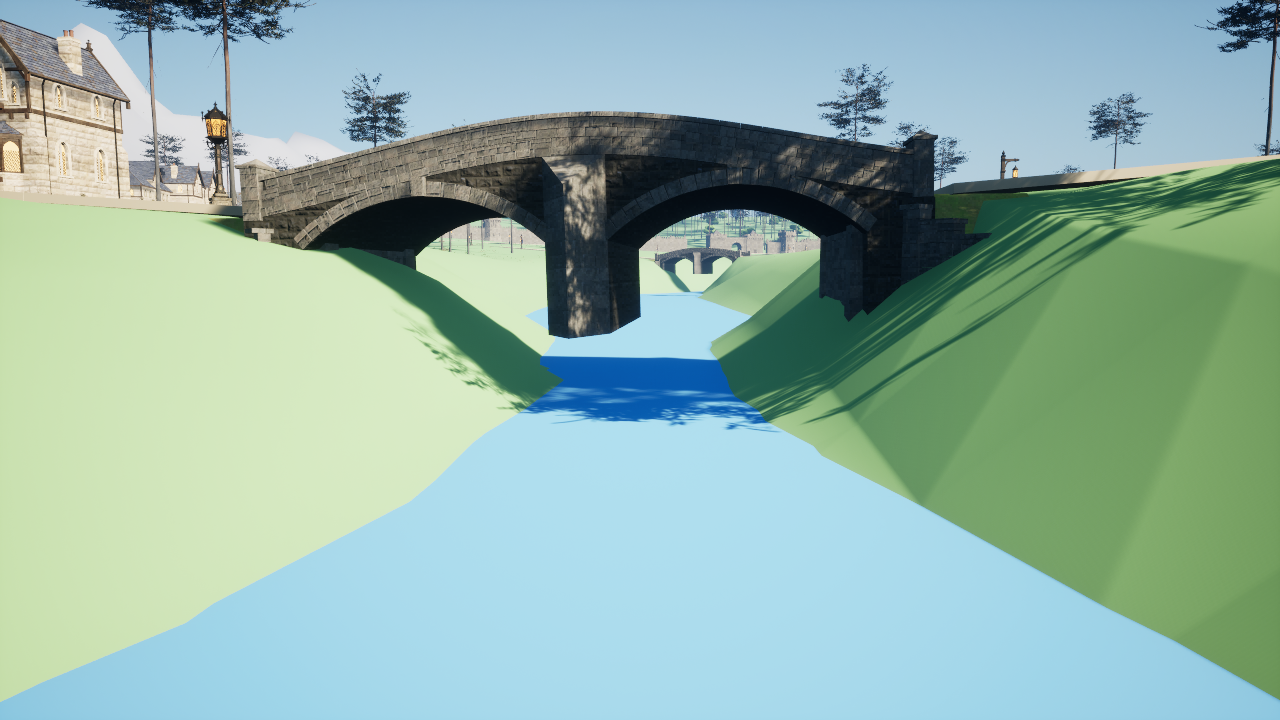
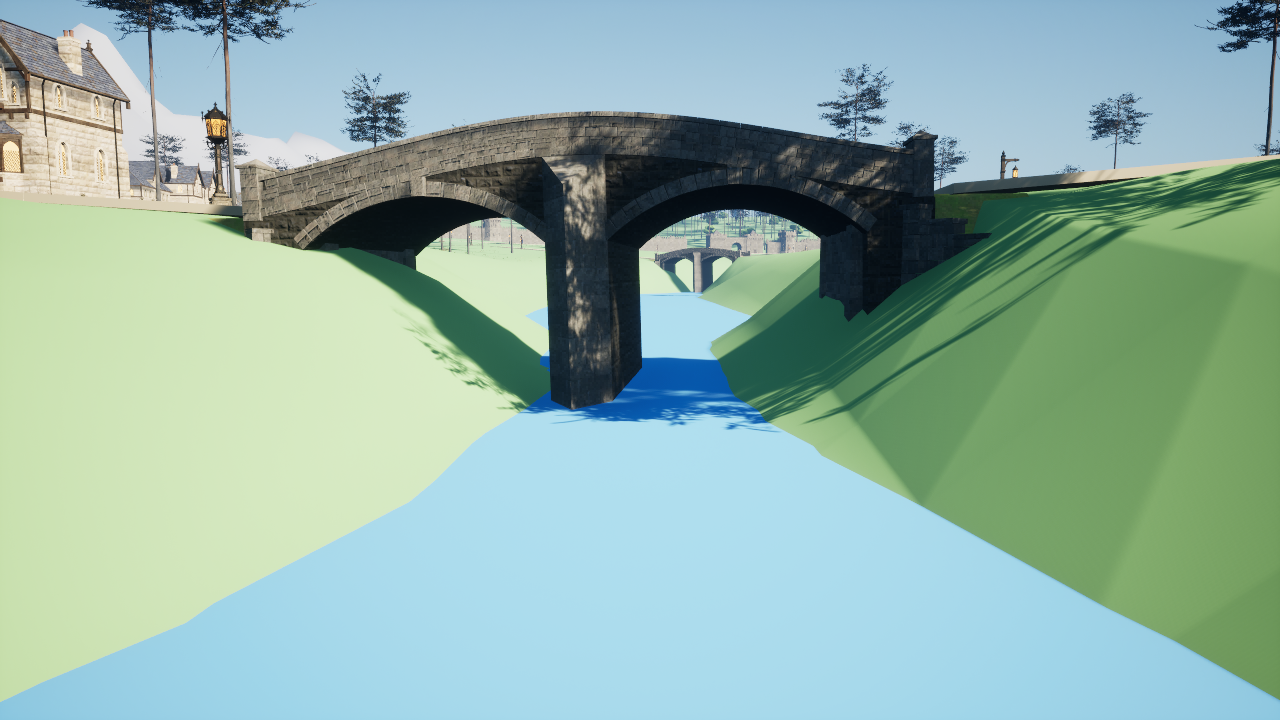
Silverbrook: deeper bridge pier verified; runbook rows for piers and angled crossings
The Assets session extended SM_SilverbrookRiverBridge and the abutments to
z=-10 m. The crossing capture shows the pier reaching into the river.

Runbook troubleshooting gains two rows:
- floating piers (masonry too shallow for built-up banks);
- the walk review stalling at a pier (the straight-line pawn left the bank
  at an angled crossing and the full-depth pier blocked it).

Walk review: 9/9 legs, no stalls, swim check, 3.9/5.2 ms. It runs with two
Valemere bridge waypoints added to review_route; that layout line is
committed separately, with another session's staged arrival change.

Changed region(s): [[0.4062, 0.4278, 0.5, 0.5806], [0.5312, 0.3667, 0.5625, 0.4278], [0.1875, 0.3056, 0.2188, 0.3361]]

diff --git a/docs/settlement-build-runbook.md b/docs/settlement-build-runbook.md
@@ -146,6 +146,8 @@ UnrealEditor.exe <uproject> <map> -game -RenderOffscreen -unattended -nosound -w
 | The editor opens an old map after a crash | `EditorStartupMap` is the art review map; nothing is lost | Open the zone map | `PROBE world` |
 | `No open ShatteredFrontier editor answered` | Editor closed, busy compiling shaders, or remote execution off | Wait and retry; relaunch; enable remote execution. Don't write ping files from PowerShell (BOM). | Probe answers |
 | Builder: `Save or discard these first` | Unsaved packages in the editor | Ask their owners, then `--discard-unsaved` | `PROBE dirty []` |
+| A bridge pier stops in mid-air above the water | Mesh masonry too shallow for built-up banks over a deep channel | Bridge and abutment stone runs to z=-10 m; anything below the bed hides in the terrain | Crossing capture |
+| Walk review stalls swimming at a bridge pier | The review pawn walks straight lines; a crossing at an angle sends it off the bank into the river, and a full-depth pier blocks the swimmer | Put the bridge ends in `review_route`, so the walk follows the road across the deck | Walk passes |
 | A pale slab under a bridge's arches | Road strip pieces continue across the river at deck height | Builder skips road pieces whose centre is over water | Crossing capture |
 | Floating flat plates in the flowers | A placeholder mesh (`SM_Wildflowers`) fills a role | Remove it from the look-profile role; cluster the real flowers | Street capture |
 | Front doors face away from the street | FBX import flips −Y to +Y | Actor yaw = target yaw + 180 | `ReviewCamera_Street` shows a door |
